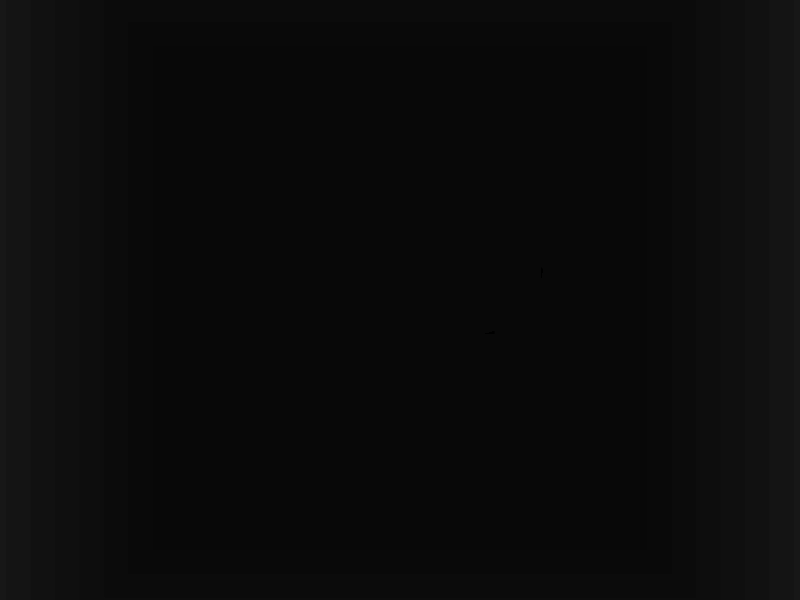
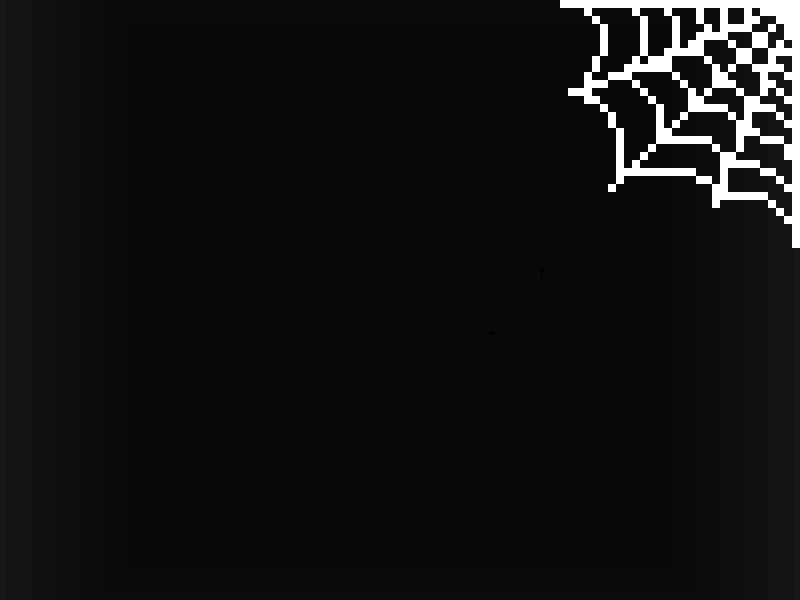
Updated credits screen background and began work on pause menu

Changed region(s): [[0.6875, 0.0, 1.0, 0.42]]

diff --git a/src/Engine/GamePanel.java b/src/Engine/GamePanel.java
@@ -1,6 +1,7 @@
 package Engine;
 
 import GameObject.Rectangle;
+import GameObject.Sprite;
 import SpriteFont.SpriteFont;
 import Utils.Colors;
 
@@ -22,13 +23,14 @@ public class GamePanel extends JPanel {
 	private SpriteFont pauseLabel;
 	private KeyLocker keyLocker = new KeyLocker();
 	private final Key pauseKey = Key.P;
+	private final Key pauseKeyAlt = Key.ESC;  // ESC key for pausing	
 	private Thread gameLoopProcess;
-
 	private Key showFPSKey = Key.G;
 	private SpriteFont fpsDisplayLabel;
 	private boolean showFPS = false;
 	private int currentFPS;
 	private boolean doPaint;
+	protected Sprite pauseScreen = new Sprite(ImageLoader.load("creditsScreen.png"), 0, 0);
 
 	// The JPanel and various important class instances are setup here
 	public GamePanel() {
@@ -42,9 +44,9 @@ public class GamePanel extends JPanel {
 
 		screenManager = new ScreenManager();
 
-		pauseLabel = new SpriteFont("PAUSE", 365, 280, "Arial", 24, Color.white);
-		pauseLabel.setOutlineColor(Color.black);
-		pauseLabel.setOutlineThickness(2.0f);
+		pauseLabel = new SpriteFont("Paused", 338, 100, "Times New Roman", 45, Color.white);
+        pauseLabel.setOutlineColor(Color.black);
+        pauseLabel.setOutlineThickness(3);
 
 		fpsDisplayLabel = new SpriteFont("FPS", 4, 3, "Arial", 12, Color.black);
 
@@ -90,15 +92,15 @@ public class GamePanel extends JPanel {
 	}
 
 	private void updatePauseState() {
-		if (Keyboard.isKeyDown(pauseKey) && !keyLocker.isKeyLocked(pauseKey)) {
+		if ((Keyboard.isKeyDown(pauseKey) || Keyboard.isKeyDown(pauseKeyAlt)) && !keyLocker.isKeyLocked(pauseKey)) {
 			isGamePaused = !isGamePaused;
 			keyLocker.lockKey(pauseKey);
 		}
-
-		if (Keyboard.isKeyUp(pauseKey)) {
+	
+		if (Keyboard.isKeyUp(pauseKey) && Keyboard.isKeyUp(pauseKeyAlt)) {
 			keyLocker.unlockKey(pauseKey);
 		}
-	}
+	}	
 
 	private void updateShowFPSState() {
 		if (Keyboard.isKeyDown(showFPSKey) && !keyLocker.isKeyLocked(showFPSKey)) {
@@ -118,8 +120,8 @@ public class GamePanel extends JPanel {
 
 		// if game is paused, draw pause gfx over Screen gfx
 		if (isGamePaused) {
-			pauseLabel.draw(graphicsHandler);
-			graphicsHandler.drawFilledRectangle(0, 0, ScreenManager.getScreenWidth(), ScreenManager.getScreenHeight(), new Color(0, 0, 0, 100));
+			pauseScreen.draw(graphicsHandler);
+			pauseLabel.draw(graphicsHandler);	
 		}
 
 		if (showFPS) {

diff --git a/src/Screens/CreditsScreen.java b/src/Screens/CreditsScreen.java
@@ -14,7 +14,7 @@ import java.awt.*;
 public class CreditsScreen extends Screen {
     protected ScreenCoordinator screenCoordinator;
     protected Map background;
-    protected Sprite titleScreen = new Sprite(ImageLoader.load("creditsScreen.png"), -10, 0);
+    protected Sprite titleScreen = new Sprite(ImageLoader.load("creditsScreen.png"), 0, 0);
     protected KeyLocker keyLocker = new KeyLocker();
     protected SpriteFont creditsLabel;
     protected SpriteFont brooksLabel;

diff --git a/src/Screens/MenuScreen.java b/src/Screens/MenuScreen.java
@@ -18,7 +18,7 @@ public class MenuScreen extends Screen {
     protected SpriteFont playGame;
     protected SpriteFont credits;
     protected Map background;
-    protected Sprite titleScreen = new Sprite(ImageLoader.load("titleScreen.png"), -10, 0);
+    protected Sprite titleScreen = new Sprite(ImageLoader.load("titleScreen.png"), 0, 0);
     protected int keyPressTimer;
     protected KeyLocker keyLocker = new KeyLocker();
 
